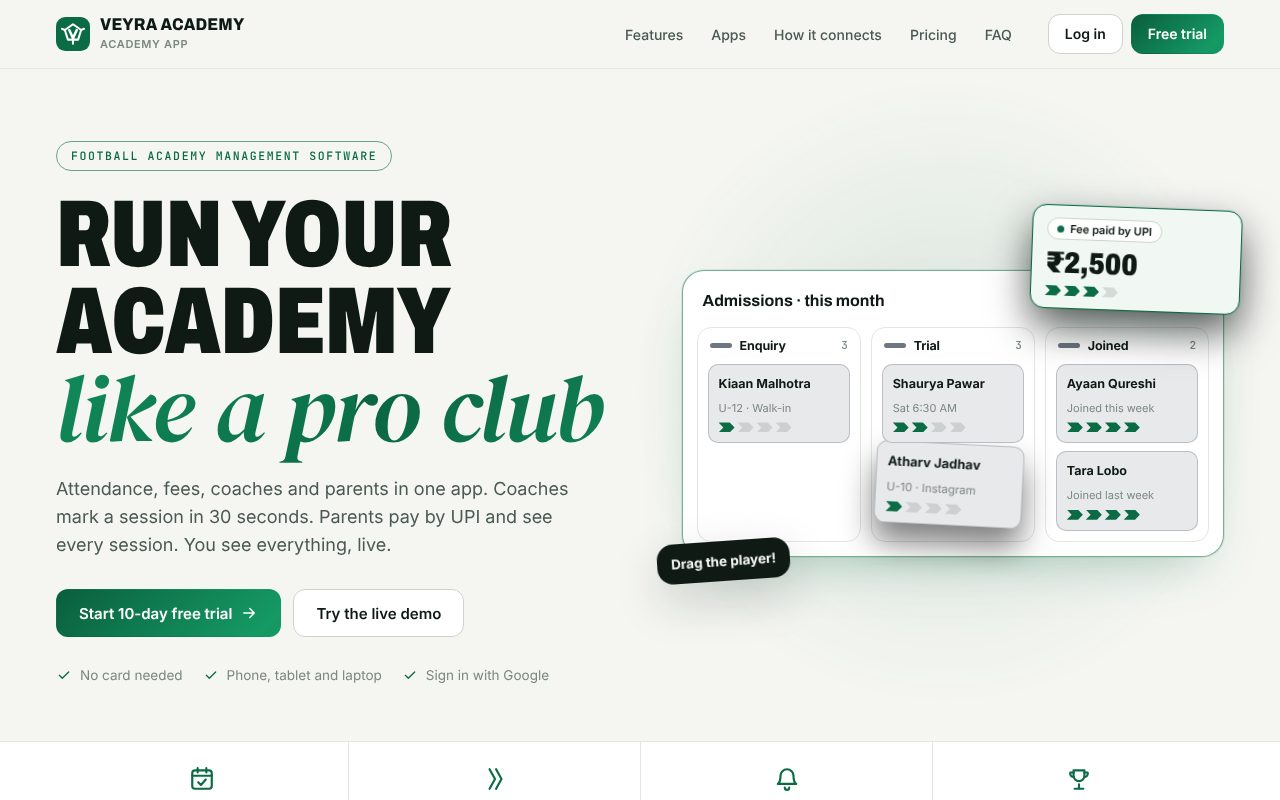
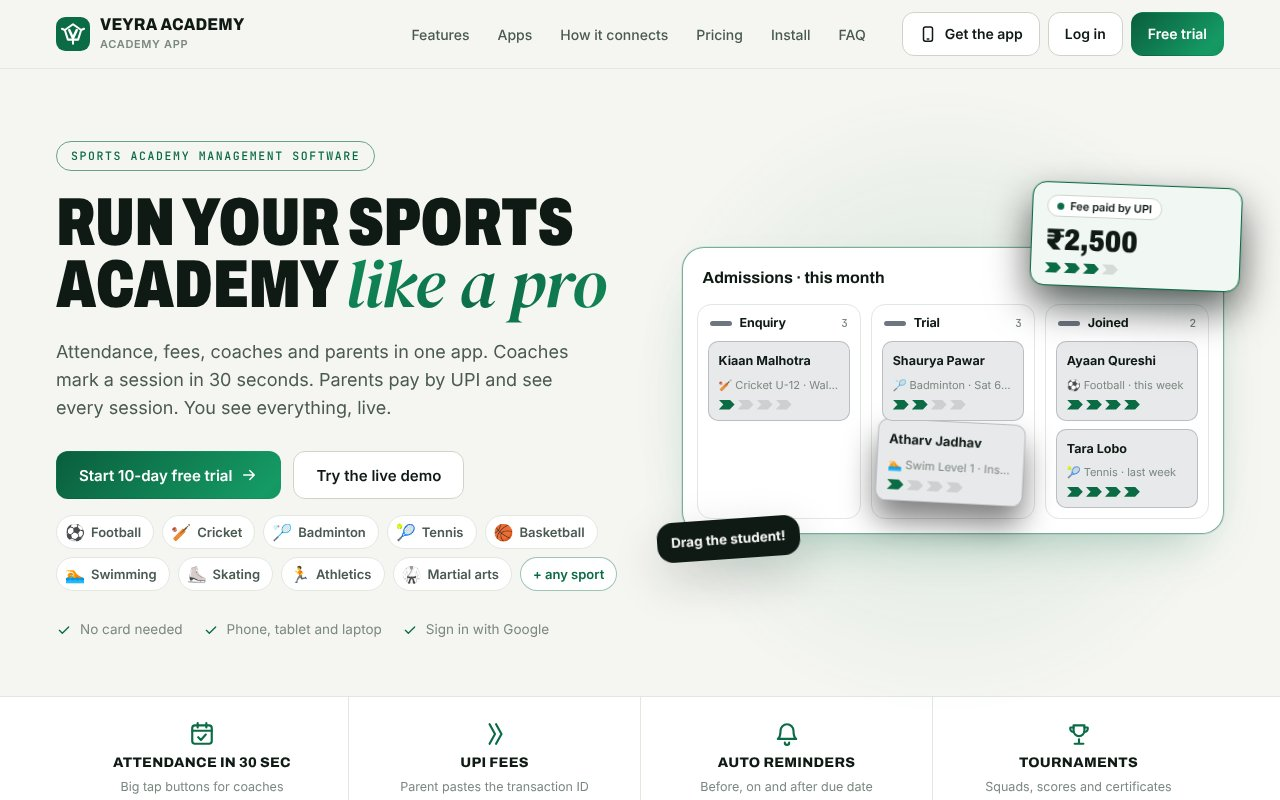
Link Veyra Academy and Dine In site-wide; show the footer on desktop
- Footer: new 'Our products' row with plain followable links to
  academy.veyracreatives.com and dinein.veyracreatives.com on every page
- Footer: relative z-10 + solid background so it is no longer hidden
  behind the fixed ambient background on desktop/tablet
- Work card: Veyra Academy copy is multi-sport, fresh screenshot of the
  live sport-neutral landing, clearer link labels
- Copyright: missing space after the year

Claude-Session: https://claude.ai/code/session_01FjdybyWFr24UaUX713SdM5

diff --git a/app/components/Footer.tsx b/app/components/Footer.tsx
@@ -1,6 +1,6 @@
 export default function Footer() {
   return (
-    <footer className="border-t border-white/[0.06] px-6 py-12 md:px-10">
+    <footer className="relative z-10 bg-[#0B0D12] border-t border-white/[0.06] px-6 py-12 md:px-10">
       <div className="mx-auto max-w-7xl">
         {/* Social Media Icons */}
         <div className="mb-8 flex justify-center gap-4">
@@ -72,6 +72,25 @@ export default function Footer() {
           </a>
         </div>
 
+        {/* Our products: plain followable links on every page */}
+        <nav aria-label="Our products" className="mb-8 flex flex-wrap items-center justify-center gap-3">
+          <span className="w-full text-center text-[11px] uppercase tracking-[0.22em] text-white/40 sm:w-auto" style={{ fontFamily: "var(--font-mono)" }}>
+            Our products
+          </span>
+          <a
+            href="https://academy.veyracreatives.com/"
+            className="rounded-full border border-white/[0.12] px-4 py-2 text-sm text-white/75 transition hover:border-[#D6FF3F] hover:text-[#D6FF3F]"
+          >
+            Veyra Academy <span className="text-white/40">· sports academy app</span>
+          </a>
+          <a
+            href="https://dinein.veyracreatives.com/"
+            className="rounded-full border border-white/[0.12] px-4 py-2 text-sm text-white/75 transition hover:border-[#D6FF3F] hover:text-[#D6FF3F]"
+          >
+            Veyra Dine In <span className="text-white/40">· restaurant QR ordering</span>
+          </a>
+        </nav>
+
         {/* Contact Info */}
         <div className="mb-8 flex flex-col items-center justify-center gap-3 text-sm text-white/60">
           {/* Phone */}
@@ -98,7 +117,7 @@ export default function Footer() {
         {/* Copyright */}
         <div className="border-t border-white/[0.06] pt-6 text-center text-sm text-white/40">
           <p style={{ fontFamily: "var(--font-mono)" }}>
-            © {new Date().getFullYear()} Veyra Creatives &amp; Digital Lab. All rights reserved.
+            © {new Date().getFullYear()}{" "}Veyra Creatives &amp; Digital Lab. All rights reserved.
           </p>
         </div>
       </div>

diff --git a/app/components/WorkSection.tsx b/app/components/WorkSection.tsx
@@ -41,7 +41,7 @@ const CASE_STUDIES: CaseStudy[] = [
     img: "/projects/dine-in.jpg",
     imgAlt: "Veyra Dine In website showing QR table ordering on a phone and the live orders screen",
     href: "https://dinein.veyracreatives.com",
-    linkLabel: "Visit live site",
+    linkLabel: "Visit Veyra Dine In",
     accent: "lime",
     wide: true,
   },
@@ -50,12 +50,12 @@ const CASE_STUDIES: CaseStudy[] = [
     kind: "Our product · SaaS",
     title: "Veyra Academy",
     summary:
-      "Management app for football academies: attendance in seconds, UPI fees, reminders and a parent view.",
+      "Management app for sports academies of any kind: football, cricket, swimming, badminton and more. Attendance in seconds, UPI fees, reminders and a parent view.",
     deliverables: ["Product design", "Web app", "SEO site"],
     img: "/projects/academy.jpg",
-    imgAlt: "Veyra Academy website with the admissions board for a football academy",
-    href: "https://academy.veyracreatives.com",
-    linkLabel: "Visit live site",
+    imgAlt: "Veyra Academy website: sports academy management software with an admissions board for students across sports",
+    href: "https://academy.veyracreatives.com/",
+    linkLabel: "Visit Veyra Academy",
     accent: "purple",
     wide: true,
     flip: true,
